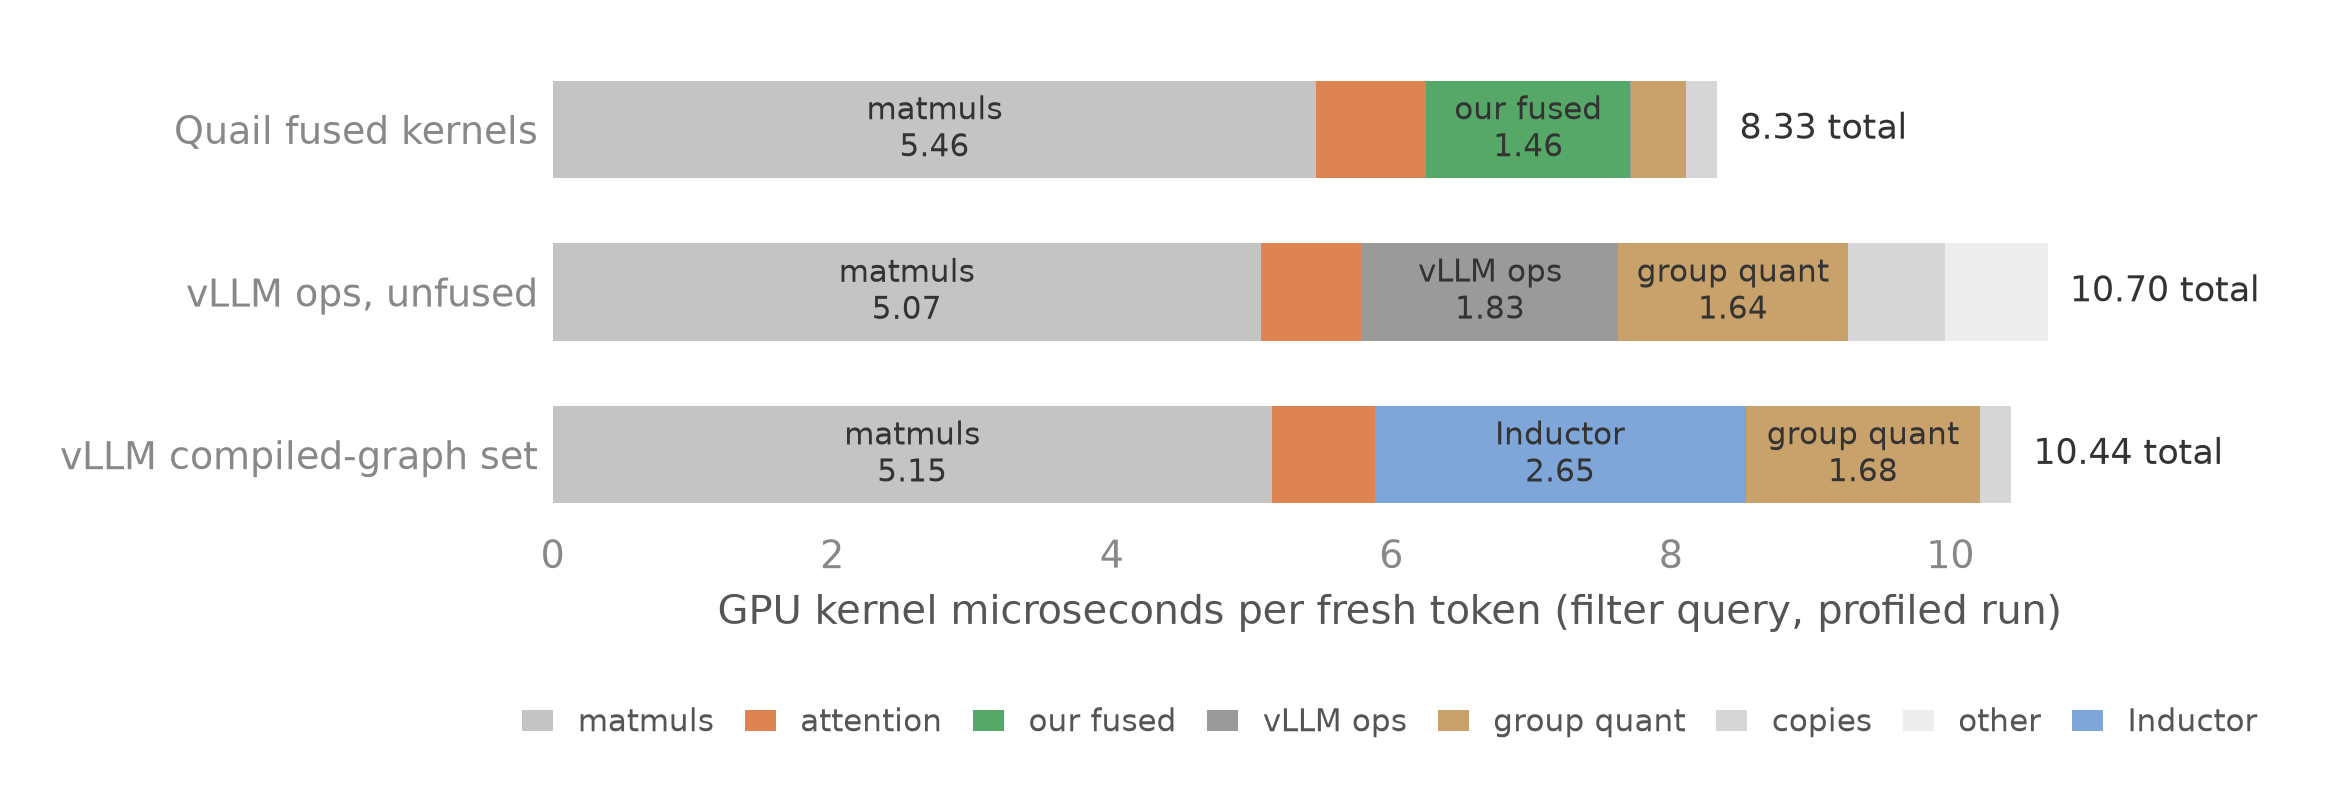
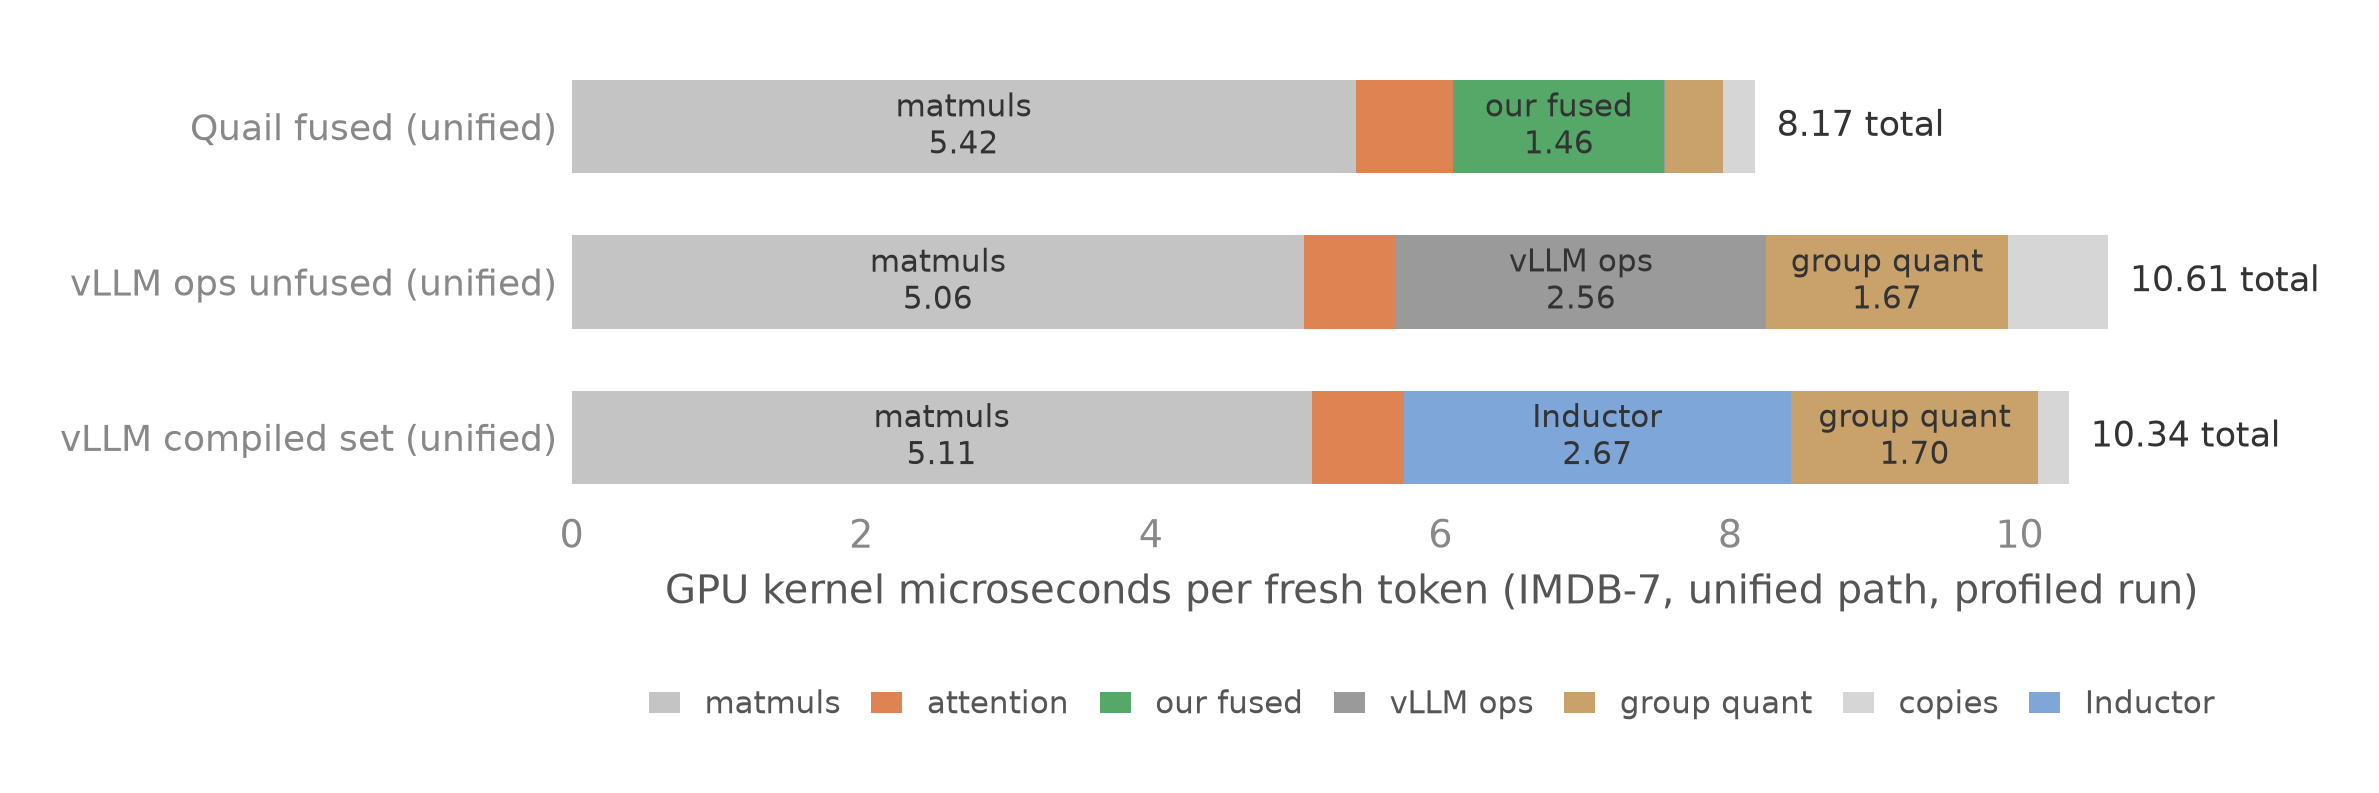
Report the QUAIL-B kernel-source ablation: 27%/23% over vLLM's compiled set
IMDB-7 (unified path): 15.0 s vs 19.1 s against the compiled kernel
set and 19.5 s against the unfused ops. BIO-2 (merge_quant path,
563,500 pairs): 128.9 s vs 158.9 s and 161.8 s. Stock vLLM's
compiled graph keeps four standalone group-quant launches per layer
for this model, so torch.compile recovers only a tenth of the gap.
All predictions stated before the run; three in band, one 0.4
points under. Report includes throughput and dollars per query, the
per-category GPU profile, and the four-column kernel diagram.

Claude-Session: https://claude.ai/code/session_01PwpJt14fuuyfeoG2nhwcvz

diff --git a/reports/2026-08-29-vllm-compiled-kernels.md b/reports/2026-08-29-vllm-compiled-kernels.md
@@ -5,23 +5,39 @@ Cell: `ablations/vllm_compiled_kernels.py`.
 
 The question: how much speed do our custom JIT kernels add, measured
 against the kernels a user would get from vLLM's own torch.compile of
-this model? An earlier ablation (2026-08-19; deleted as superseded by
-this report, see git history) compared our kernels against vLLM's ops
-called one by one, unfused. That comparison could be generous to us:
-stock vLLM compiles the model at boot, and its compiled graph could
-fuse the same operation pairs we fuse. This experiment adds the
-missing configuration and runs the comparison on one filter query and
-one join query.
+this model? Stock vLLM compiles the model at boot, and its compiled
+graph could in principle fuse the same operation pairs we fuse — so
+comparing only against vLLM's ops called one by one would be generous
+to us. This experiment measures both alternatives on two QUAIL-B
+queries.
 
-Answer: the fused kernels are worth 26% per token on both queries
-against the compiled kernel set (29% against the unfused ops),
-because stock vLLM's compiled graph does not fuse the quantization
-work for this model. Figure: `plots/kernel_source_rates.png`.
+Answer: on QUAIL-B queries, the fused kernels are worth 27% per token
+on the filter path and 23% on the join path against the compiled
+kernel set (30% and 26% against the unfused ops). The reason: stock
+vLLM's compiled graph does not fuse the quantization work for this
+model, and quantization is the largest small-kernel cost.
+Figure: `plots/kernel_source_rates.png`.
+
+## The four kernel sequences, side by side
+
+Figure: `plots/kernel_paths.png` (source:
+`reports/kernel_paths_diagram.html`). One layer of the 36-layer loop
+in each measured configuration. The matrix multiplies (DeepGEMM
+fp8_gemm_nt), FlashAttention-3, and the KV page write are the same
+kernels in every column; the columns differ only in the small kernels
+between them:
+
+- vLLM ops, unfused: 18 launches per layer on the unified path.
+- vLLM compiled-graph set: 15 launches per layer.
+- Quail fused, unified path (filters): 11 launches per layer.
+- Quail fused, merge_quant path (joins): 13 launches per layer (two
+  attention calls plus the fused merge, which also does the o_proj
+  quantization).
 
 ## What stock vLLM's compiled graph runs (measured, not assumed)
 
 We booted stock vLLM 0.26.0 at its defaults on the same image and
-profiled a prefill pass in-process
+profiled a prefill pass over IMDB-1-shaped prompts in-process
 (`/results/ablations/kernel_source_stock.json`):
 
 - The default optimization level is -O2, which compiles the model
@@ -31,37 +47,33 @@ profiled a prefill pass in-process
 - The config enables the RMSNorm+quant and SiLU+quant fusion passes
   (`fuse_norm_quant` and `fuse_act_quant` both true) — but the
   profiled kernel list contains no fused norm+quant or silu+quant
-  kernel. The group-quant that this model traces under DeepGEMM's
-  ue8m0 scale format (on by default on this image, for stock and for
-  our engine alike) does not match the patterns the passes register,
-  so the rewrite never fires. What actually runs, per layer:
-  - two Inductor-generated add+rms_norm kernels,
-  - one Inductor-generated silu*mul kernel,
-  - two Inductor-generated kernels for the q/k head norms and rotary
-    embedding (the dedicated qk-norm+rope fusion pass is off at
-    every -O level in 0.26.0),
-  - four standalone CUDA group-quant launches
-    (`per_token_group_quant_8bit_kernel`), one per GEMM input. This
-    is the largest small-kernel cost in the stock profile: 332 ms of
-    the profiled pass, against 132 ms for silu*mul and 94 ms for
-    both norms together.
-- The GEMMs (DeepGEMM sm90 fp8) and attention (FlashAttention-3) are
-  the same kernels the packed executor calls. They and the KV-cache
-  write sit outside the compiled graph.
+  kernel. The group-quant this model traces under DeepGEMM's ue8m0
+  scale mode (on by default on this image, for stock and for our
+  engine alike) does not match the patterns the passes register, so
+  the rewrite never fires. What actually runs, per layer: two
+  Inductor-generated add+rms_norm kernels, one Inductor silu*mul
+  kernel, two Inductor kernels for the q/k head norms plus rotary
+  (the dedicated qk-norm+rope fusion pass is off at every -O level in
+  0.26.0), and four standalone CUDA group-quant launches
+  (`per_token_group_quant_8bit_kernel`), one per GEMM input. The
+  standalone quant is the largest small-kernel cost in the stock
+  profile: 317 ms of the profiled pass, against 124 ms for silu*mul
+  and 89 ms for both norms together.
 
 So for this model, torch.compile's contribution is Inductor's fusion
 of the elementwise chains. The quantization stays unfused, and that
 is where most of our kernels' win lives.
 
-## The three configurations
+## The three kernel sources
 
-Same engine, same packing, same DeepGEMM matmuls, same
-FlashAttention-3 calls, same KV write. Only the small kernels between
-the matmuls (and the join merge) change. The non-quail paths live in
-a Pipeline subclass inside the ablation cell; the engine is
-unchanged.
+Every run goes through the real planner and the real worker execution
+core (`quail.runtime.worker._execute_single`); only the pipeline's
+kernel source is swapped, so packing, admission, the join search, KV
+retention, GEMMs, and attention are identical across configurations.
+The non-quail paths live in a Pipeline subclass inside the ablation
+cell; the engine is unchanged.
 
-| configuration | between-GEMM kernels | join merge |
+| kernel source | between-GEMM kernels | merge_quant-path join merge |
 |---|---|---|
 | quail | our three fused Triton kernels | our fused merge+quant Triton kernel |
 | vllm_ops | vLLM's ops one by one, unfused (fused_add_rms_norm + quant, silu_and_mul + quant, per-head norms + rotary as five launches) | vLLM's merge_attn_states + separate group quant |
@@ -71,141 +83,135 @@ A per-kernel probe (`/results/ablations/kernel_source_probe.json`)
 checked the wiring before the measured runs: the compiled segments
 hold one graph across token counts, the add+rms_norm segment folds
 the residual write into one generated kernel plus the quant launch
-(no extra copy), dequantized outputs sit within one fp8 rounding
-step of our kernels', and a 32-document filter with planted flags
-answers identically (0 wrong) through all three configurations.
+(no extra copy), dequantized outputs sit within one fp8 rounding step
+of our kernels', and IMDB-1 plus BIO-2 at scale factor 0.01 return
+near-identical rows through all three sources.
 
 ## The two queries
 
-- Filter query: the committed 10,000-document IMDB five-filter
-  workload (4.10M fresh tokens), unified attention — the filter
-  path.
-- Join query: 100 BioDEX reports x 256 reaction terms, 25,600 pairs
-  (1.09M fresh tokens), merge_quant attention — the join path.
+Both from the QUAIL-B catalog at scale factor 0.1 (reviews 5,000;
+reports 500; terms 1,127):
 
-Two repetitions per configuration, one container, one model load.
-The tables use each configuration's second repetition, matching the
-cell's comparison rows; the container's very first measured run
-(quail, repetition 0) was 2.4 s slower than its repetition 1, while
-every other configuration's repetitions agreed within 0.05 s.
+- IMDB-7: three filters over the reviews table (F1 -> F4 -> F5, no
+  join) — the unified attention path, 1.80M fresh tokens.
+- BIO-2: the reports x terms join, 563,500 document pairs — the
+  merge_quant attention path, 10.37M fresh tokens.
+
+Two repetitions per kernel source after one unmeasured warm run;
+repetitions agreed within 0.2% everywhere. The tables use the second
+repetition, matching the cell's comparison rows.
 
 ## Predictions (stated before the run)
 
-- Filter, vllm_ops: +2.3 to +2.6 us/token over quail (the earlier
-  2026-08-19 ablation measured a 2.4 gap). Measured: +2.48. Correct.
-- Filter, vllm_compiled: +1.7 to +2.2 us/token, reasoning that the
-  stock inventory keeps all four group-quant launches per layer, so
-  most of the fusion saving stays with quail. Measured: +2.23, just
-  above the top of the band.
-- Join: the filter gap plus the unfused merge — +2.5 to +3.0
-  (vllm_ops) and +2.0 to +2.7 (vllm_compiled). Measured: +3.13 and
-  +2.83, each about 0.1 above its band.
+- IMDB-7, vllm_ops: +25 to +32% wall. Measured: +29.7%. Correct.
+- IMDB-7, vllm_compiled: +22 to +29% wall, reasoning that the
+  compiled set keeps all four standalone group-quant launches per
+  layer and recovers only the q/k segment. Measured: +26.9%. Correct.
+- BIO-2, vllm_ops: +26 to +33% wall. Measured: +25.6%, just under
+  the band.
+- BIO-2, vllm_compiled: +23 to +30%. Measured: +23.3%, at the bottom
+  edge.
 
-Both misses are small and on the same side: the vLLM-side
-configurations cost slightly more than predicted, mostly because
-Inductor's silu*mul kernel turned out slower than vLLM's CUDA op
-(below).
+One anchor in the stored prediction text was stale: it cited BIO-2 at
+32 s from the QUAIL-B sf0.1 report, which predates the BioDEX corpus
+scale-up (the benchmark's cache schema version 5). Today's BIO-2 is
+563,500 pairs and runs about 129 s on the quail source. The
+percentage bands, which is what the predictions were about, held.
 
 ## Results
 
-Wall time and rate, second repetition
-(`/results/ablations/kernel_source_filter.json`,
-`/results/ablations/kernel_source_join.json`):
+Second repetition, one H100, `$3.9492/hour`
+(`quail.bench.evaluate.H100_USD_PER_HOUR`). Query time excludes model
+startup, as everywhere in this repo.
 
-| configuration | filter wall | filter us/token | join wall | join us/token |
+IMDB-7 — unified attention path, 5,000 documents:
+
+| kernel source | query time | us/fresh token | documents/s | $/query |
 |---|---|---|---|---|
-| quail | 34.7 s | 8.48 | 11.9 s | 10.93 |
-| vllm_compiled | 43.9 s | 10.71 (+26%) | 15.0 s | 13.75 (+26%) |
-| vllm_ops | 44.9 s | 10.96 (+29%) | 15.3 s | 14.06 (+29%) |
+| quail (unified) | 15.0 s | 8.36 | 333.1 | $0.0165 |
+| vllm_compiled (unified) | 19.1 s | 10.60 (+27%) | 262.3 | $0.0209 |
+| vllm_ops (unified) | 19.5 s | 10.84 (+30%) | 256.7 | $0.0214 |
 
-- Our fused kernels save 9.1 s of the 43.9 s filter query against
-  the compiled kernel set, and 3.1 s of 15.0 s on the join query —
-  1.26x on both. Against the unfused ops it is 1.29x on both.
-- The compiled set beats the unfused ops by only 0.25 (filter) to
-  0.31 (join) us/token — about a tenth of the gap to quail.
-  torch.compile is not where the speed is for this model.
-- The join gap exceeds the filter gap by 0.60-0.65 us/token on both
-  vLLM-side configurations. That is the price of composing the join
-  merge from vLLM's pieces (gather the rows with cached context,
-  merge_attn_states, scatter back, quantize — five launches per
-  layer) against our one fused merge+quant kernel.
-- quail's join rate here (10.93 us/token at 100x256) matches the
-  10x256 measurement in the attention-paths report (11.04).
+BIO-2 — merge_quant attention path, 563,500 document pairs:
 
-Answers: on the filter query all three configurations returned
-byte-identical answers — 40,052 answers, 4,645 survivors, 0 wrong
-against the planted flags, 0 disagreements — and the quail counts
-equal the banked `results/attention_paths.json` values exactly. On
-the join query the vLLM-side configurations each flipped about 0.2%
-of pairs (61 and 56 of 25,600) with yes-counts within 27 of quail's
-25,546; this workload saturates the 4B model near all-TRUE, and
-thin-margin flips under different kernel rounding are the known
-behavior from the accuracy-vs-stock study.
+| kernel source | query time | us/fresh token | pairs/s | $/query |
+|---|---|---|---|---|
+| quail (merge_quant) | 128.9 s | 12.42 | 4,372.6 | $0.1414 |
+| vllm_compiled (merge_quant) | 158.9 s | 15.31 (+23%) | 3,547.4 | $0.1743 |
+| vllm_ops (merge_quant) | 161.8 s | 15.60 (+26%) | 3,482.0 | $0.1775 |
+
+- The compiled set beats the unfused ops by only 0.24-0.29 us/token —
+  about a tenth of its gap to quail. torch.compile is not where the
+  speed is for this model.
+- The join-path gap exceeds the filter-path gap by 0.64-0.69
+  us/token on both vLLM sources. That is the price of composing the
+  join merge from vLLM's pieces (gather the rows with cached
+  context, merge_attn_states, scatter back, quantize) against our
+  one fused merge+quant kernel.
+- BIO-2's fresh-token count is identical across sources (a
+  single-stage join evaluates every pair); IMDB-7's differs by under
+  0.07% because survivor sets differ slightly between stages.
+
+Output rows: IMDB-7 returned 727 / 730 / 747 surviving documents
+(quail / vllm_ops / vllm_compiled), with 83-86 documents in the
+symmetric difference — about 1.7% of the 5,000 scanned documents flip
+at thin stage margins between kernel stacks. BIO-2 returned 116,295 /
+111,263 / 119,608 pairs, a 6.5-6.7% pair flip rate; the BioDEX
+term-matching task sits near the 4B model's floor with TRUE/FALSE
+margins close to zero (the 32B model resolves it), so small rounding
+differences between kernel stacks move many pairs. No kernel source
+is more accurate than another here; the flips measure margin
+thinness, not correctness.
 
 ### Where the GPU time goes
 
-GPU kernel microseconds per fresh token on a profiled 3,000-document
-filter run (`/results/ablations/kernel_source_profile.json`).
+GPU kernel microseconds per fresh token on a profiled IMDB-7 run
+(`/results/ablations/kernel_source_profile.json`).
 Figure: `plots/kernel_source_profile.png`.
 
-| category | quail | vllm_ops | vllm_compiled |
+| category | quail (unified) | vllm_ops (unified) | vllm_compiled (unified) |
 |---|---|---|---|
-| matrix multiplies (DeepGEMM) | 5.46 | 5.07 | 5.15 |
-| attention (FlashAttention-3) | 0.79 | 0.72 | 0.74 |
+| matrix multiplies (DeepGEMM) | 5.42 | 5.06 | 5.11 |
+| attention (FlashAttention-3) | 0.68 | 0.63 | 0.64 |
 | our fused Triton kernels | 1.46 | — | — |
-| vLLM norm and rotary ops | 0.00 | 1.83 | 0.00 |
-| vLLM silu*mul op¹ | 0.00 | 0.73 | 0.00 |
-| Inductor-generated kernels | — | — | 2.65 |
-| standalone group-quant | 0.39 | 1.64 | 1.68 |
-| copies | 0.23 | 0.70 | 0.22 |
-| **total** | **8.33** | **10.70** | **10.44** |
-
-¹Stored in the data file's "other" bucket: the act_and_mul kernel's
-template name escapes the category matcher. Per-kernel rows in the
-file confirm the split: rms_norm 0.88, rotary 0.47,
-fused_add_rms_norm 0.48 (together the 1.83), act_and_mul 0.73.
+| vLLM norm, rotary, silu ops | 0.00 | 2.56 | 0.00 |
+| Inductor-generated kernels | — | — | 2.67 |
+| standalone group-quant | 0.40 | 1.67 | 1.70 |
+| copies | 0.22 | 0.69 | 0.21 |
+| **total** | **8.17** | **10.61** | **10.34** |
 
 Readings:
 
 - The standalone group-quant is the cost torch.compile does not
-  remove: 1.68 us/token in the compiled set against quail's 0.39
+  remove: 1.70 us/token in the compiled set against quail's 0.40
   (our one remaining quant, the attention output feeding o_proj).
   Fusing the other three quant passes into their producers is most
   of our win.
-- Inductor's generated kernels (2.65) also lose to our fused
-  kernels (1.46) on the work they do fuse. The single biggest
-  reason: its silu*mul kernel costs 1.49 us/token where vLLM's CUDA
-  op costs 0.73 and our fused silu+quant kernel does the activation
-  and the quantization together in 0.78 (per-kernel rows in the
-  data file: 1.837 s, 0.907 s, 0.968 s over 1.24M tokens).
 - Inductor's fusion is a wash on the ops themselves: it replaces
-  2.56 us/token of vLLM norm, rotary, and silu*mul kernels with
-  2.65 us/token of generated kernels. What torch.compile actually
-  recovers is the data movement around the unfused sequence — the
-  copies bucket falls from 0.70 to 0.22 (mostly the two contiguous
-  copies per layer the vLLM q/k path needs). Net, that is the
-  0.25-0.31 us/token difference between the two vLLM-side
-  configurations.
-- Small-kernel work in total (everything but matmuls and
-  attention): quail 2.08, vllm_compiled 4.55, vllm_ops 4.90
-  us/token. The GPU-time deltas (2.11 and 2.37) account for about
-  95% of the measured wall deltas — all three configurations are
-  GPU-bound.
+  2.56 us/token of vLLM norm, rotary, and silu*mul kernels with 2.67
+  us/token of generated kernels — its silu*mul kernel alone is about
+  twice as slow as vLLM's hand-written CUDA op. What torch.compile
+  actually recovers is the data movement around the unfused
+  sequence: the copies bucket falls from 0.69 to 0.21 (mostly the
+  two contiguous copies per layer the vLLM q/k path needs).
+- Small-kernel work in total (everything but matmuls and attention):
+  quail 2.08, vllm_compiled 4.58, vllm_ops 4.92 us/token. The
+  GPU-time deltas account for 97-98% of the measured wall deltas —
+  all three configurations are GPU-bound.
 
 ## Scope notes
 
-- One model (Qwen3 4B fp8). At 32B the same absolute per-token
-  saving would sit on ~60 us/token of matmul-dominated work
-  (attention-paths report), so the relative win shrinks by roughly
-  8x. Not re-measured here.
-- Stock vLLM at -O2 also runs CUDA graphs for decode-sized batches.
-  This workload is large-chunk prefill, where CUDA graphs do not
-  apply, and the packed executor launches eagerly in every
-  configuration — so graph capture is outside this comparison.
-- The vllm_compiled configuration reproduces stock's kernel set
-  inside our executor; it is not stock vLLM end to end. The stock
-  engine baseline for these queries is the separate stock-vllm
-  reports.
+- One model (Qwen3 4B fp8). The per-token saving is roughly constant
+  in model size while the matmul work grows about 8x at 32B, so the
+  relative win shrinks accordingly. Not re-measured here.
+- Stock vLLM at -O2 also captures CUDA graphs for decode-sized
+  batches. These queries are large-chunk prefill, where CUDA graphs
+  do not apply, and the packed executor launches eagerly in every
+  configuration — graph capture is outside this comparison.
+- The vllm_compiled source reproduces stock's kernel set inside our
+  executor; it is not stock vLLM end to end. The stock engine
+  baseline for QUAIL-B is the stock-vllm-joins report and the
+  QUAIL-B sf0.1 report.
 
 ## How to reproduce
 
@@ -215,26 +221,28 @@ Readings:
     uv run modal run ablations/vllm_compiled_kernels.py::run_profile
 
 Modal app `quail-milestone1`, one H100 per cell. Function calls:
-queries `fc-01M17GRV662HJ9D4EQT7YMPA9Y`, profile
-`fc-01M17H1SNZM6D40470RD0YYERY`, stock inventory
-`fc-01M17H1VWNYPSD3AFRMXFR03FM`, probe
-`fc-01M17GNH10ZBAK23Y4034NKCVV`.
+queries `fc-01M17PPYE6361DV4C9N57MAWBF`, profile
+`fc-01M17PQ42KN5YS8ABRS3K2G06K`, stock inventory
+`fc-01M17PQ620HWV0579W35VWJTFS`, probe
+`fc-01M17NG322VDE687JR8RQY444E`.
 
 ## Data files
 
 All on the `quail-results` volume:
 
-- `/results/ablations/kernel_source_filter.json` — filter walls,
-  rates, counts, comparisons, banked gate.
-- `/results/ablations/kernel_source_join.json` — join walls, rates,
-  yes-counts, disagreements.
+- `/results/ablations/kernel_source_imdb7.json` — IMDB-7 walls,
+  rates, rows, comparisons.
+- `/results/ablations/kernel_source_bio2.json` — BIO-2 walls, rates,
+  rows, comparisons.
 - `/results/ablations/kernel_source_profile.json` — per-category GPU
-  time and launch counts for the three configurations.
+  time and launch counts for the three sources on IMDB-7.
 - `/results/ablations/kernel_source_stock.json` — stock vLLM's
   resolved compilation config and kernel inventory.
 - `/results/ablations/kernel_source_probe.json` — per-kernel parity,
-  compiled-segment launch counts, planted-flag check.
+  compiled-segment launch counts, sf 0.01 row agreement.
 
 Plots are rebuilt by `reports/make_kernel_source_plots.py` (the
-`modal volume get` commands are in its docstring). Local tee logs:
-`results/kernel_source_*.log`.
+`modal volume get` commands are in its docstring; it also prints the
+throughput and $/query table above). The kernel diagram is
+`reports/kernel_paths_diagram.html`, rendered to
+`plots/kernel_paths.png`. Local tee logs: `results/kernel_source_*.log`.
